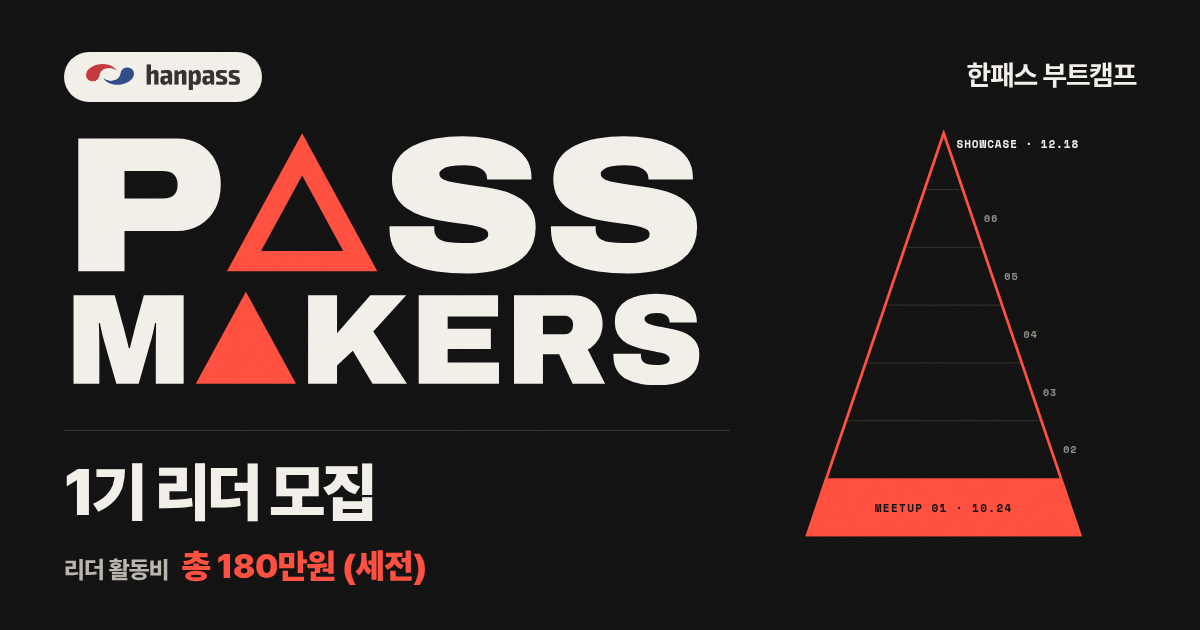
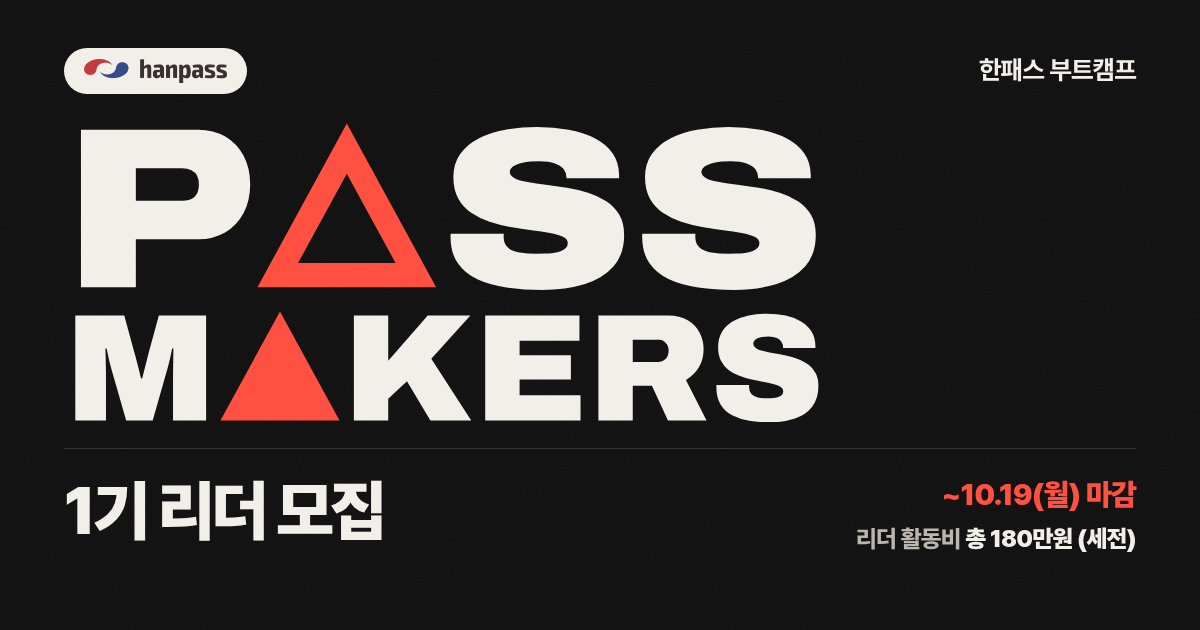
Add files via upload

diff --git a/index.html b/index.html
@@ -57,7 +57,7 @@
   .hero .wm{max-width:62rem}
   .rule{border:0;border-top:1px solid var(--line);margin:2rem 0}
   .hero-grid{display:grid;gap:2rem}
-  @media (min-width:860px){.hero-grid{grid-template-columns:1fr 20rem;gap:3rem;align-items:start}}
+  
   .hero h1{font-size:clamp(3rem,10vw,4.75rem);line-height:1;font-weight:900;letter-spacing:-.05em;margin:0 0 .9rem}
   .hero .copy{font-size:clamp(1.375rem,3.6vw,1.9rem);font-weight:800;line-height:1.3;letter-spacing:-.045em;margin:0 0 .5rem}
   .hero .en{font-family:var(--ar);font-weight:600;font-stretch:100%;color:var(--sub);font-size:1.0625rem;margin:0 0 1.75rem}
@@ -230,7 +230,6 @@
         </dl>
         <a class="btn" id="heroCta" href="#apply">리더 신청하기</a>
       </div>
-      <div class="hero-gauge" aria-hidden="true"><svg class="gauge" viewBox="-2 -2 370 444" role="img" aria-label="6번의 밋업으로 채워지는 삼각형. 1차 밋업 10월 24일, 연말 쇼케이스 12월 18일"><line x1="42.9" y1="314.3" x2="257.1" y2="314.3" stroke="#F2EFE9" stroke-opacity=".16" stroke-width="1"/><line x1="64.3" y1="251.4" x2="235.7" y2="251.4" stroke="#F2EFE9" stroke-opacity=".16" stroke-width="1"/><line x1="85.7" y1="188.6" x2="214.3" y2="188.6" stroke="#F2EFE9" stroke-opacity=".16" stroke-width="1"/><line x1="107.1" y1="125.7" x2="192.9" y2="125.7" stroke="#F2EFE9" stroke-opacity=".16" stroke-width="1"/><line x1="128.6" y1="62.9" x2="171.4" y2="62.9" stroke="#F2EFE9" stroke-opacity=".16" stroke-width="1"/><polygon points="21.4,377.1 278.6,377.1 300,440 0,440" fill="#FF4D3D"/><polygon points="150.0,1.5 298.5,438.5 1.5,438.5" fill="none" stroke="#FF4D3D" stroke-width="3" stroke-linejoin="miter"/><text x="280" y="350" font-family="Space Mono, monospace" font-weight="700" font-size="11" letter-spacing="1" fill="#B9B5AD" fill-opacity=".75">02</text><text x="258" y="287" font-family="Space Mono, monospace" font-weight="700" font-size="11" letter-spacing="1" fill="#B9B5AD" fill-opacity=".75">03</text><text x="237" y="224" font-family="Space Mono, monospace" font-weight="700" font-size="11" letter-spacing="1" fill="#B9B5AD" fill-opacity=".75">04</text><text x="216" y="161" font-family="Space Mono, monospace" font-weight="700" font-size="11" letter-spacing="1" fill="#B9B5AD" fill-opacity=".75">05</text><text x="194" y="98" font-family="Space Mono, monospace" font-weight="700" font-size="11" letter-spacing="1" fill="#B9B5AD" fill-opacity=".75">06</text><text x="150.0" y="414" text-anchor="middle" font-family="Space Mono, monospace" font-weight="700" font-size="12" letter-spacing="1.5" fill="#0E0E0E">MEETUP 01 · 10.24</text><text x="164.0" y="18" font-family="Space Mono, monospace" font-weight="700" font-size="12" letter-spacing="1" fill="#F2EFE9">SHOWCASE · 12.18</text></svg></div>
     </div>
   </div>
 </header>
